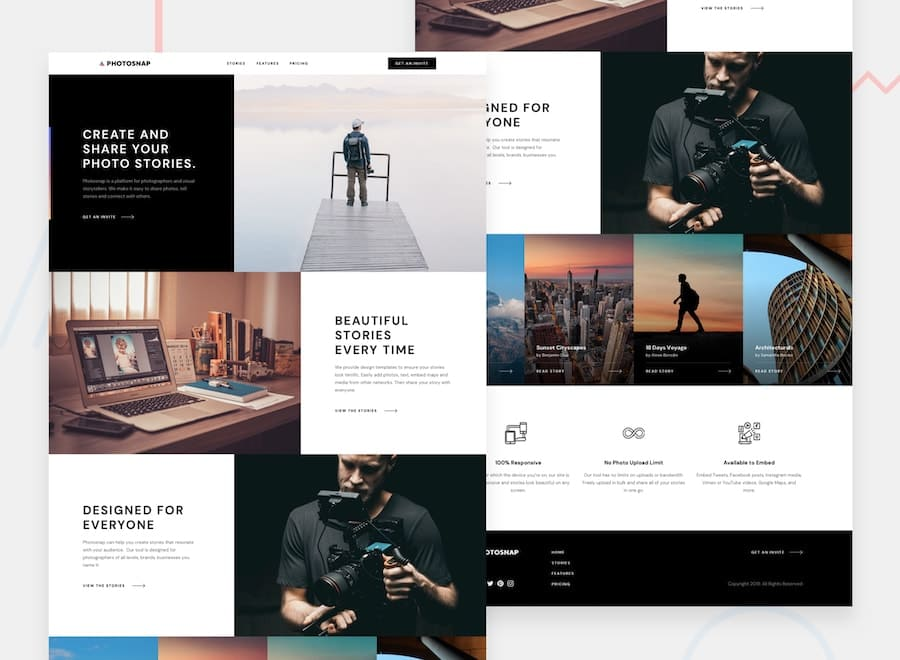
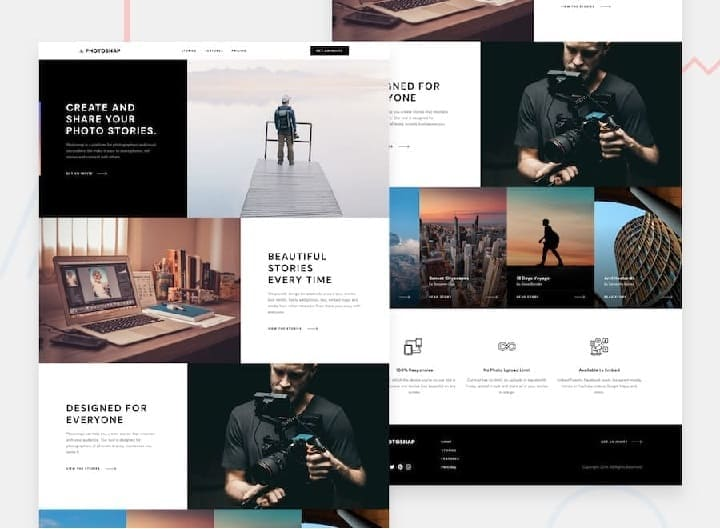
compresednImages

diff --git a/src/app/components/my-projects/my-projects.component.scss b/src/app/components/my-projects/my-projects.component.scss
@@ -52,7 +52,7 @@
     font-size: 36px;
   }
   p {
-    color: rgba(255, 255, 255, 0.532);
+    color: rgba(255, 255, 255, 0.713);
     font-family: "Verdana", sans-serif;
     font-size: 16px;
   }
